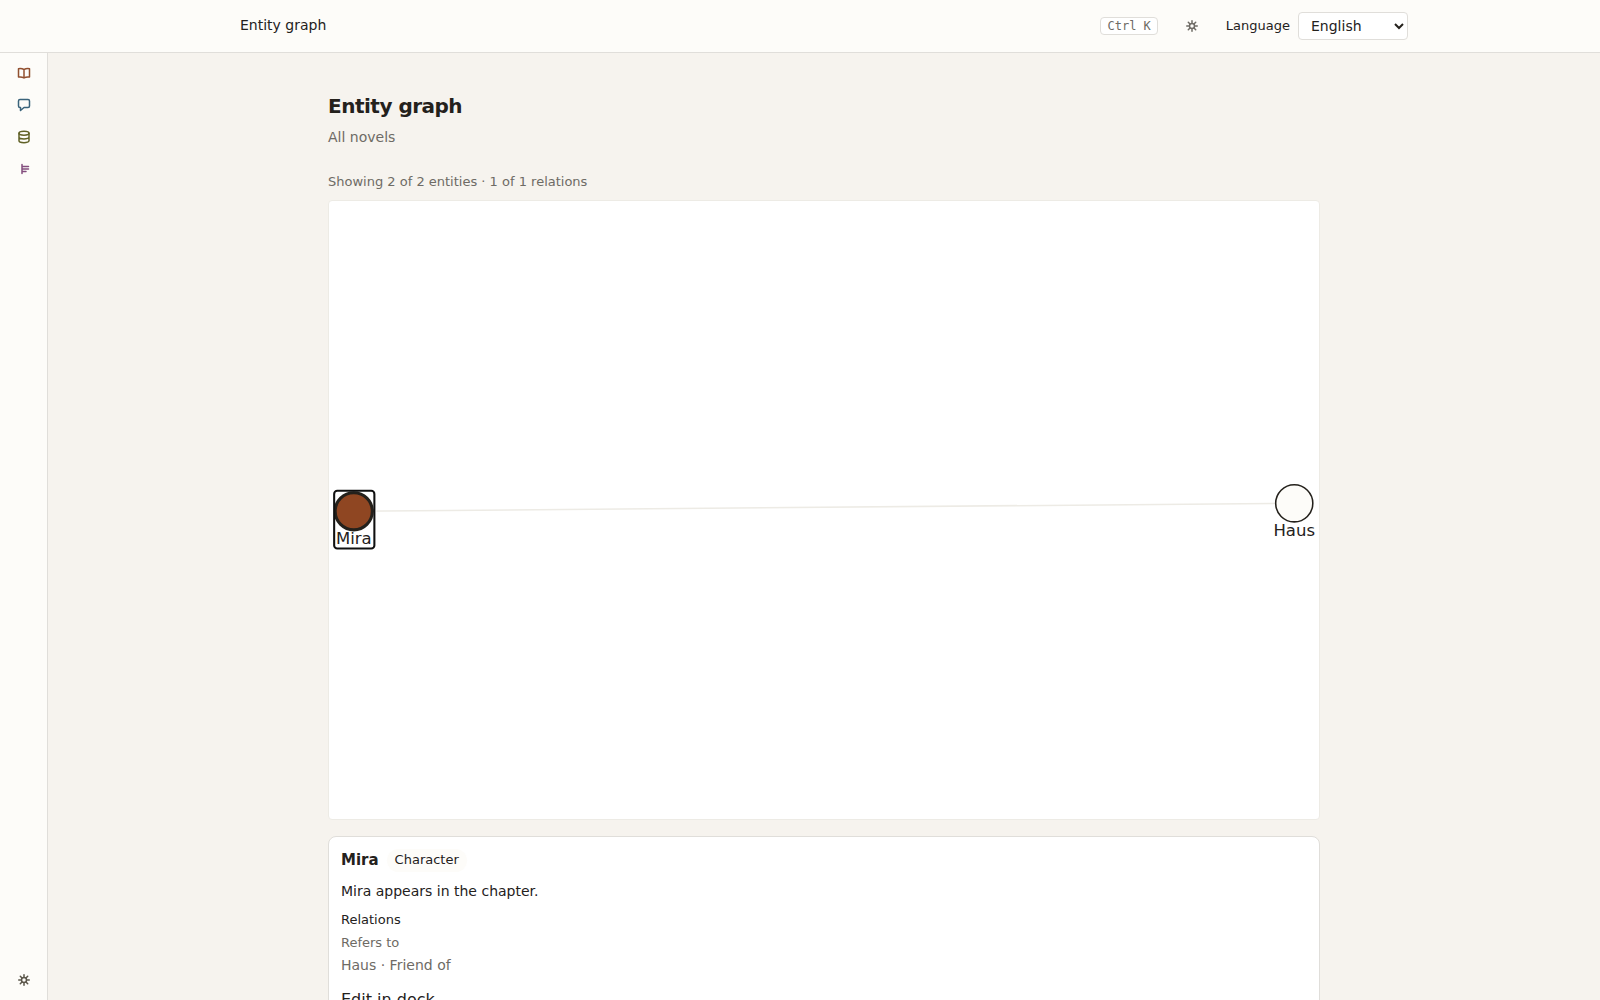
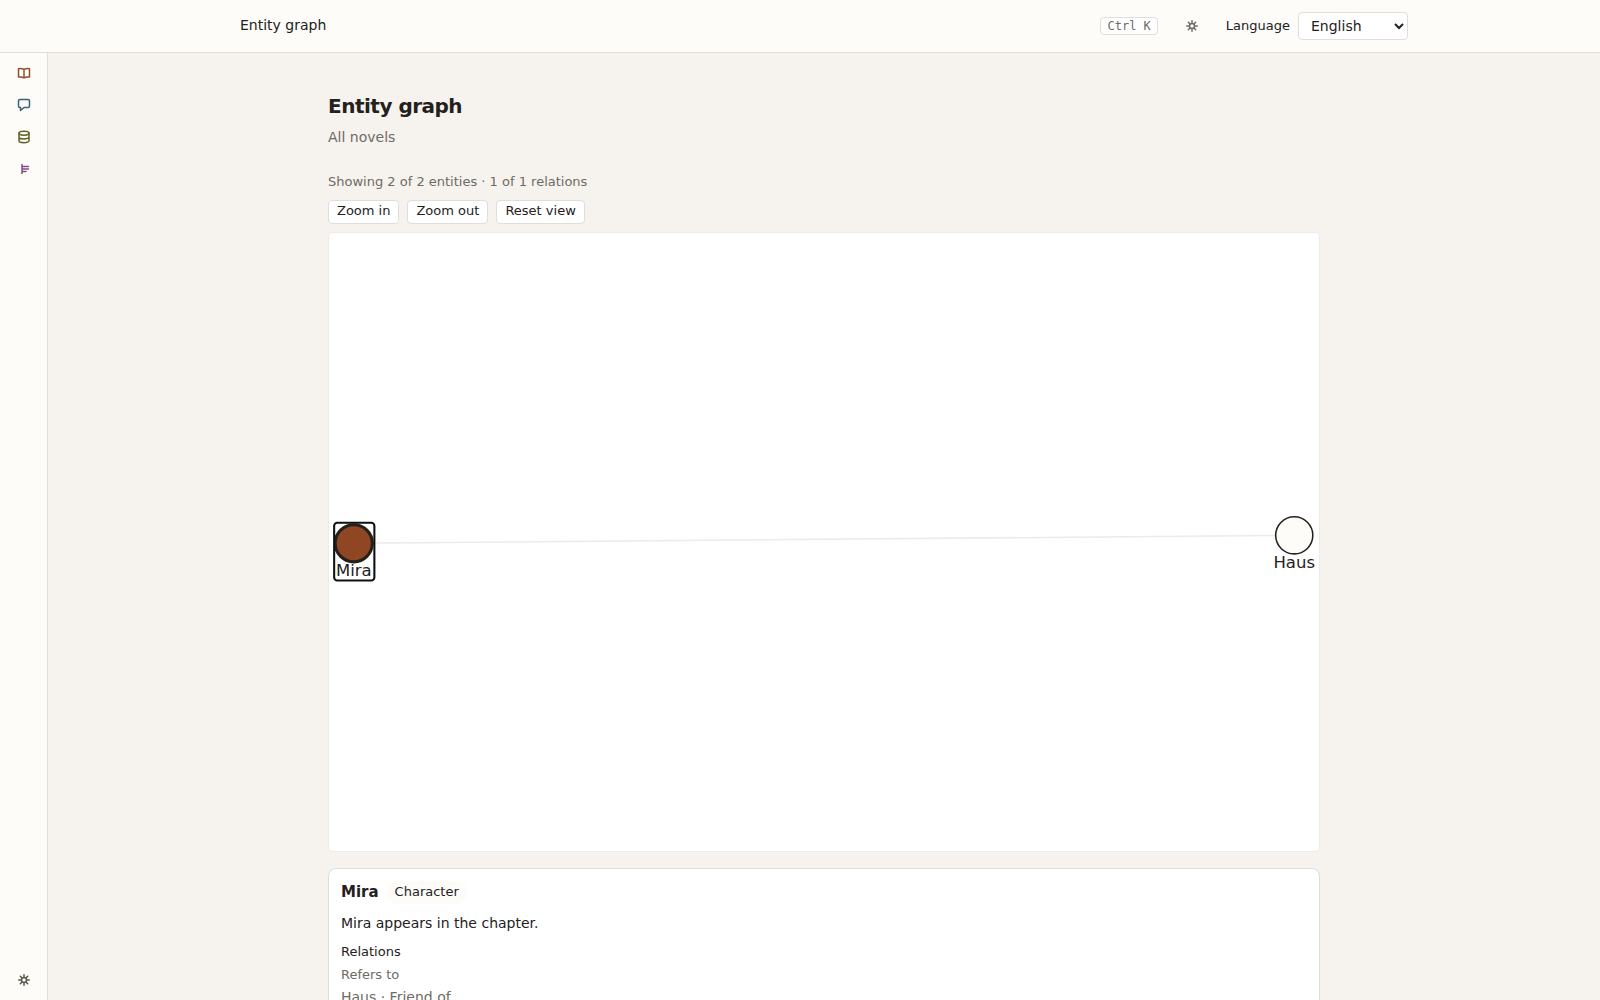
docs(screenshots): every frame after the navigation pass
The graph canvas grew Zoom in / out / Reset controls and the settings
gained the shortcuts cluster, so 10/11 are re-shot and 18/19 pin the new
cluster in light and chosen dark. Every other frame re-shot clean: the only
delta on the shelf was the relative-seconds timestamp, reverted as noise.

User-visible: The screenshots again show the app as it is — the graph's zoom controls and the new shortcuts settings page, with every older frame re-verified.
Assisted-by: OpenCode (muse-spark-1.3-contributor)

diff --git a/scripts/screenshots.py b/scripts/screenshots.py
@@ -107,6 +107,8 @@ SHOTS = (
     "15-storyboard-dark.png",
     "16-structure.png",
     "17-structure-dark.png",
+    "18-shortcuts.png",
+    "19-shortcuts-dark.png",
 )
 
 
@@ -595,6 +597,26 @@ def _capture(
     expect(page.get_by_role("heading", name="Structure", exact=True)).to_be_visible()
     expect(page.get_by_text("Resolution")).to_be_visible()
     shot(SHOTS[16])
+
+    # 18. The shortcuts cluster in the default light: the settings area's
+    #     frame with the cluster in its nav, and the registry rendered
+    #     read-only — one row per binding, grouped by the scope it applies
+    #     in, each with the platform's own keycap.
+    api.patch("/api/settings/theme", json={"theme": None})
+    page.goto(f"{WEB}/settings/shortcuts")
+    expect(page.get_by_role("heading", name="Shortcuts", exact=True)).to_be_visible()
+    expect(page.get_by_text("Everywhere")).to_be_visible()
+    expect(page.get_by_text("Open the command palette")).to_be_visible()
+    shot(SHOTS[17])
+
+    # 19. The same cluster in the reader's chosen dark, proven against a
+    #     light OS — the rows and the keycaps stay readable.
+    api.patch("/api/settings/theme", json={"theme": "dark"})
+    page.goto(f"{WEB}/settings/shortcuts")
+    expect(page.locator("html")).to_have_attribute("data-theme", "dark")
+    expect(page.get_by_role("heading", name="Shortcuts", exact=True)).to_be_visible()
+    expect(page.get_by_text("Open the command palette")).to_be_visible()
+    shot(SHOTS[18])
 
     api.patch("/api/settings/theme", json={"theme": None})
     return written
